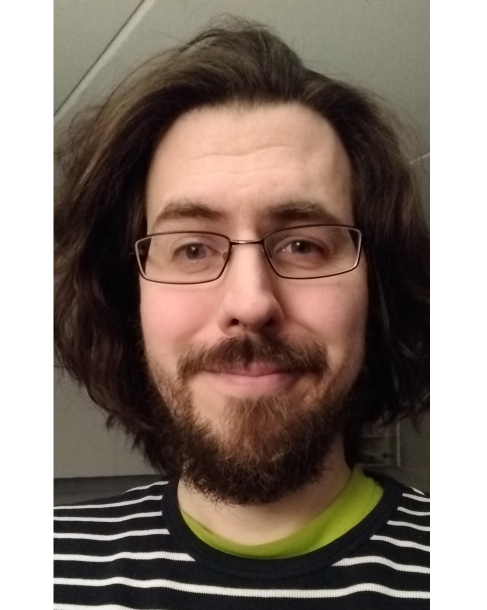
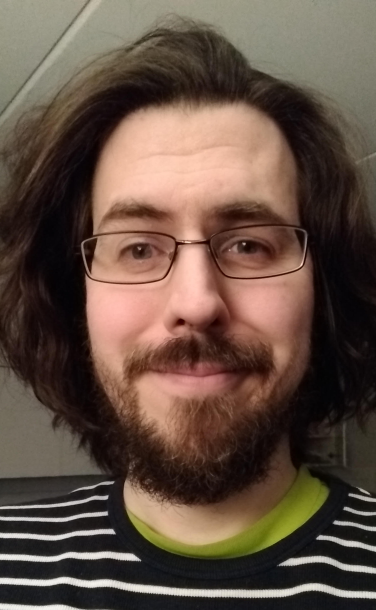
layout update

diff --git a/CSS/styles.css b/CSS/styles.css
@@ -3,6 +3,7 @@
 @import url('https://fonts.googleapis.com/css2?family=Dosis:wght@800&display=swap');
 @import url('https://fonts.googleapis.com/css2?family=Caveat+Brush&display=swap');
 @import url('https://fonts.googleapis.com/css2?family=Alice&family=Quicksand:wght@300;400;500;600;700&display=swap');
+@import url('https://fonts.googleapis.com/css2?family=Neuton:wght@300;400;700&display=swap');
 
 * {
 	margin: 0;
@@ -42,7 +43,7 @@ nav {
 	position: fixed;
 	top: 0;
 	font-family: "Lato", sans-serif;
-	background: rgba(229, 225, 216, 0.8); /*#232529; /*#151617; /*#232529; /*#82BFD8; */ /* backdrop for the header section*/
+	background: rgba(229, 225, 216, 0.0); /*#232529; /*#151617; /*#232529; /*#82BFD8; */ /* backdrop for the header section*/
 	width: 100%;
 	padding: 10px 0;
 	transition: top 0.5s;
@@ -123,6 +124,18 @@ ul {
 	margin: auto;
   width: 50%;
 }
+
+.navigator {
+	background: #E5E1D8;
+	padding: 25px 35px 25px 10px;
+	border-radius: 15px 50px 50px 15px;
+	border-style: solid;
+	border-color: #100F0E;
+  border-width: 2px;
+  box-shadow: 5px 5px #100F0E;
+}
+
+
 /*---------------BLOCKQUOTE----------------------------------------------*/
 
 /* center the blockquote in the page */
@@ -359,6 +372,7 @@ td.contact {
 	padding: 5px;
 }
 a:link.contact {
+  border-radius: 3px;
 	vertical-align: middle;
 	display:inline;
     background-color: #100F0E; /*green;*/
@@ -370,6 +384,7 @@ a:link.contact {
   font-weight: 600;
 }
 a:visited.contact {
+  border-radius: 3px;
 	vertical-align: middle;
 	display:inline;
     background-color: #100F0E; /*green;*/
@@ -379,6 +394,7 @@ a:visited.contact {
 	padding-right: 12px;
 }
 a:hover.contact {
+  border-radius: 1px;
 	vertical-align: middle;
 	display:inline;
     background-color: #E5E1D8; /*#fff;*/
@@ -394,6 +410,7 @@ a:hover.contact {
 /*----------------------------------------  */
 
 a:link.contact2 {
+  border-radius: 3px;
 	vertical-align: middle;
 	display:inline;
     background-color: #100F0E; /*green;*/
@@ -406,6 +423,7 @@ a:link.contact2 {
 	border-bottom: 3px solid #100F0E; /*#FF8C00;*/
 }
 a:visited.contact2 {
+  border-radius: 3px;
 	vertical-align: middle;
 	display:inline;
     background-color: #100F0E; /*green;*/
@@ -416,6 +434,7 @@ a:visited.contact2 {
 	border-bottom: 3px solid #100F0E; /*#FF8C00;*/
 }
 a:hover.contact2 {
+  border-radius: 1px;
 	vertical-align: middle;
 	display:inline;
     background-color: #E5E1D8; /*#fff;*/
@@ -433,6 +452,7 @@ a:hover.contact2 {
 /*----------------------------------------  */
 
 a:link.contact3 {
+  border-radius: 3px;
 	vertical-align: top;
 	display:inline;
     background-color: #252B29; /*#100F0E; /*green;*/
@@ -445,6 +465,7 @@ a:link.contact3 {
 	border-bottom: 2px solid #252B29; /*#100F0E; /*#FF8C00;*/
 }
 a:visited.contact3 {
+  border-radius: 3px;
 	vertical-align: top;
 	display:inline;
     background-color: #252B29; /*#100F0E; /*green;*/
@@ -455,6 +476,7 @@ a:visited.contact3 {
 	border-bottom: 2px solid #252B29; /*#100F0E; /*#FF8C00;*/
 }
 a:hover.contact3 {
+  border-radius: 1px;
 	vertical-align: top;
 	display:inline;
     background-color: #E5E1D8; /*#fff;*/
@@ -769,11 +791,16 @@ a:hover {
   color: #F4F4F2; /*#f0f6f0; /*#F4F4F2;*/
 }
 .sections-container-about {
-  background: #E5E1D8; /*#323130; /*#2e3037; /*#36393F; /*#B4D4E1; */
+  background: #E3C789; /*#E5E1D8; /*#323130; /*#2e3037; /*#36393F; /*#B4D4E1; */
   color: #100F0E; /*##F4F4F2; /*#f0f6f0; /*#F4F4F2; /*#ffffff; */
   margin: auto;
   max-width: 800px;
-  /* this is the backdrop and font colour of the about me section */
+	padding: 30px 25px 85px 25px;
+	border-radius: 50px 50px 5px 5px;
+	border-style: solid;
+	border-color: #100F0E;
+  border-width: 2px;
+  box-shadow: 5px 5px #100F0E;
 }
 .sections-container-top {
   /*background: #36393F; /*#B4D4E1; */
@@ -870,6 +897,7 @@ a:hover {
 
 .portfolio-background {
   width: 100%;
+	border-radius: 50px 50px 0px 0px;
 }
 
 .nav-break {
@@ -885,8 +913,27 @@ a:hover {
   height: auto;
   max-height: 300px;
   overflow: hidden;
-  margin: 5px 10px;
+  margin: 5px 30px 0px 40px;
+	border-radius: 50px 5px 5px 50px;
+	border-style: solid;
+	border-color: #100F0E;
+  border-width: 2px;
+  box-shadow: 5px 5px #494B62;
 }
+
+/*----------------------------------------  */
+table.about {
+	background: #E5E1D8;
+	padding: 25px 35px 25px 20px;
+	border-radius: 5px 50px 50px 5px;
+	border-style: solid;
+	border-color: #100F0E;
+  border-width: 2px;
+  box-shadow: 5px 5px #494B62;
+  max-height: 300px;
+  min-height: 300px;
+}
+/*----------------------------------------  */
 #top-img {
   float: left;
   width: auto;
@@ -1430,15 +1477,36 @@ iframe {
     float: none;
     width: 100%;
   }
+  
   #bio-img {
-  float: right;
+  float: left;
   width: auto;
-  max-width: 200px;
+  max-width: 300px;
   height: auto;
   max-height: 300px;
   overflow: hidden;
-  margin: 5px 5px;
-  }
+  margin: 5px 80px 20px 20px;
+	border-radius: 5px 50px 50px 5px;
+	border-style: solid;
+	border-color: #100F0E;
+  border-width: 2px;
+  box-shadow: 5px 5px #494B62;
+}
+
+/*----------------------------------------  */
+table.about {
+	margin: 20px 5px 5px 20px;
+	background: #E5E1D8;
+	padding: 25px 35px 25px 20px;
+	border-radius: 5px 50px 50px 5px;
+	border-style: solid;
+	border-color: #100F0E;
+  border-width: 2px;
+  box-shadow: 5px 5px #494B62;
+  max-height: 300px;
+  min-height: 300px;
+}
+/*----------------------------------------  */
   .portfolio-list {
     margin: 10px 0px;
   }

diff --git a/index.html b/index.html
@@ -30,6 +30,24 @@
     }
 </script>
 </head>
+  <!-----------------------------------------------------------------------------------
+  
+<nav>
+  <div class="menu">
+  	<div class="title"><a href="/">JOSEF OLSSON
+  		<div class="subtitle">UI/UX DESIGNER</div></a>
+  	</div>
+  	<input type="checkbox" id="check">
+  	<label for="check" class="checkbtn">
+  		<i class="fa fa-bars" aria-hidden="true" onclick></i>
+  	</label>
+	<ul class="navigator">
+      <li><a href="index.html#projects" class="contact" id="portfolio">PROJECTS</a></li>
+  		<li><a href="index.html#about" class="contact" id="portfolio">ABOUT ME</a></li>
+  	</ul>
+  </div>
+</nav>
+  <!------------------------------------------------------------------------------------>
 <div class="center"><br>
   <div class="sections-container-top">
 
@@ -538,20 +556,22 @@ The final version is a creature I imagine as somewhere between a badger and a ho
 </div></div></div>  <div class="section" id="about"></div><br><br>
   <div class="center">
   <div class="sections-container-about"><br>
-
+<table class="contact">
     <img id="bio-img" src="Images/portrait_Josef.png" alt="A photo of me">
-<div class="about-me-para">
 
-<table>
+
+<table class="about">
 	<tr><th><img src="Images/icon_cv.png" id="icon"></th> <td><a href="pdf/CVJosefOlsson.pdf" class="contact">CV</a></td></tr>
 	<tr><th><img src="Images/icon_mail.png" id="icon"></th> <td><a href="mailto: josefolsson.design@gmail.com" class="contact">MAIL</a></td></tr>
-	<!--<tr><th><img src="Images/icon_twitter.png" id="icon"></th> <td><a href="https://twitter.com/josefolsson" class="contact">TWITTER</a></td></tr>-->
+	<tr><th><img src="Images/icon_twitter.png" id="icon"></th> <td><a href="https://twitter.com/josefolsson" class="contact">TWITTER</a></td></tr>
 	<tr><th><img src="Images/icon_linkedin.png" id="icon"></th> <td><a href="https://www.linkedin.com/in/josef-olsson-design" class="contact">LINKEDIN</a></td></tr>
 	</table>
-
-<br>Born and raised in and around Umeå. I grew up with a SNES, learned English from Lucasarts adventure games, and I’ve been playing indie games since the mid 90s. I read more tabletop RPGs than I'm ever going to play.
+<div class="about-me-para">
+<br>Born and raised in and around <b>Umeå</b>, currently based in <b>Malmö</b> &ndash; two cities that have more in common than either of them realize. 
 <br><br>
-I think better when I draw and often draw to explain my ideas. I'm well used to <b>Unity</b>, I'm comfortable in a wide variety of 2D art software, as well as <b>Blender</b>, and an especially big fan of <b>Figma</b>.
+I think better when I draw and often draw to explain my ideas. I'm well used to <b>Unity</b>, I'm comfortable in a wide variety of 2D art software, as well as <b>Blender</b>. An especially big fan of <b>Figma</b>.
+<br><br>
+I drink a lot of tea, enjoy cooking in my spare time, and read more tabletop RPGs than I'm ever going to play.
 <br><br>
 Good design is intuitive.
 </div>

diff --git a/reuseheader.html b/reuseheader.html
@@ -1,3 +1,5 @@
+
+  
 <nav>
   <div class="menu">
   	<div class="title"><a href="/">JOSEF OLSSON
@@ -7,9 +9,9 @@
   	<label for="check" class="checkbtn">
   		<i class="fa fa-bars" aria-hidden="true" onclick></i>
   	</label>
-	<ul>
-      <li><a href="index.html#projects" class="nav-link" id="portfolio"><span>PROJECTS</span></a></li>
-  		<li><a href="index.html#about" class="nav-link" id="portfolio"><span>ABOUT ME</span></a></li>
+	<ul class="navigator">
+      <li><a href="index.html#projects" class="contact" id="portfolio">PROJECTS</a></li>
+  		<li><a href="index.html#about" class="contact" id="portfolio">ABOUT ME</a></li>
   	</ul>
   </div>
 </nav>
